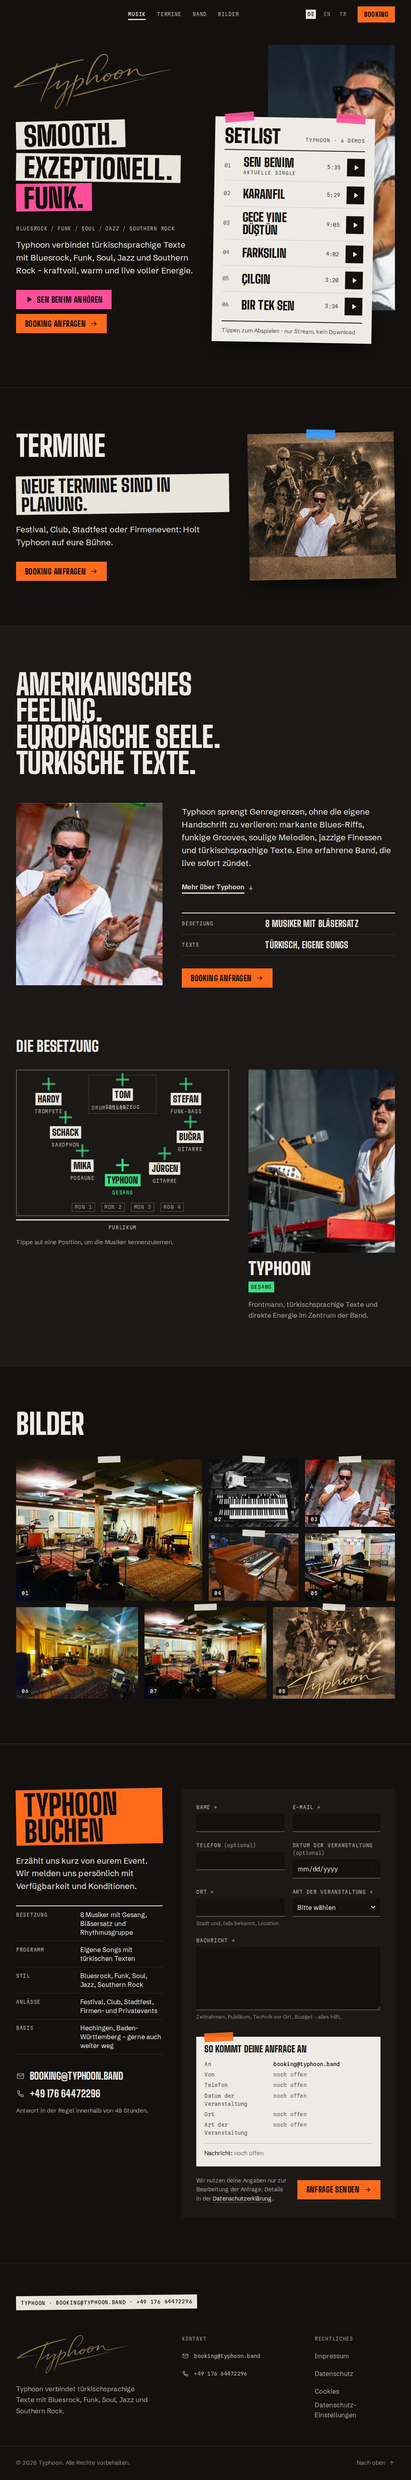
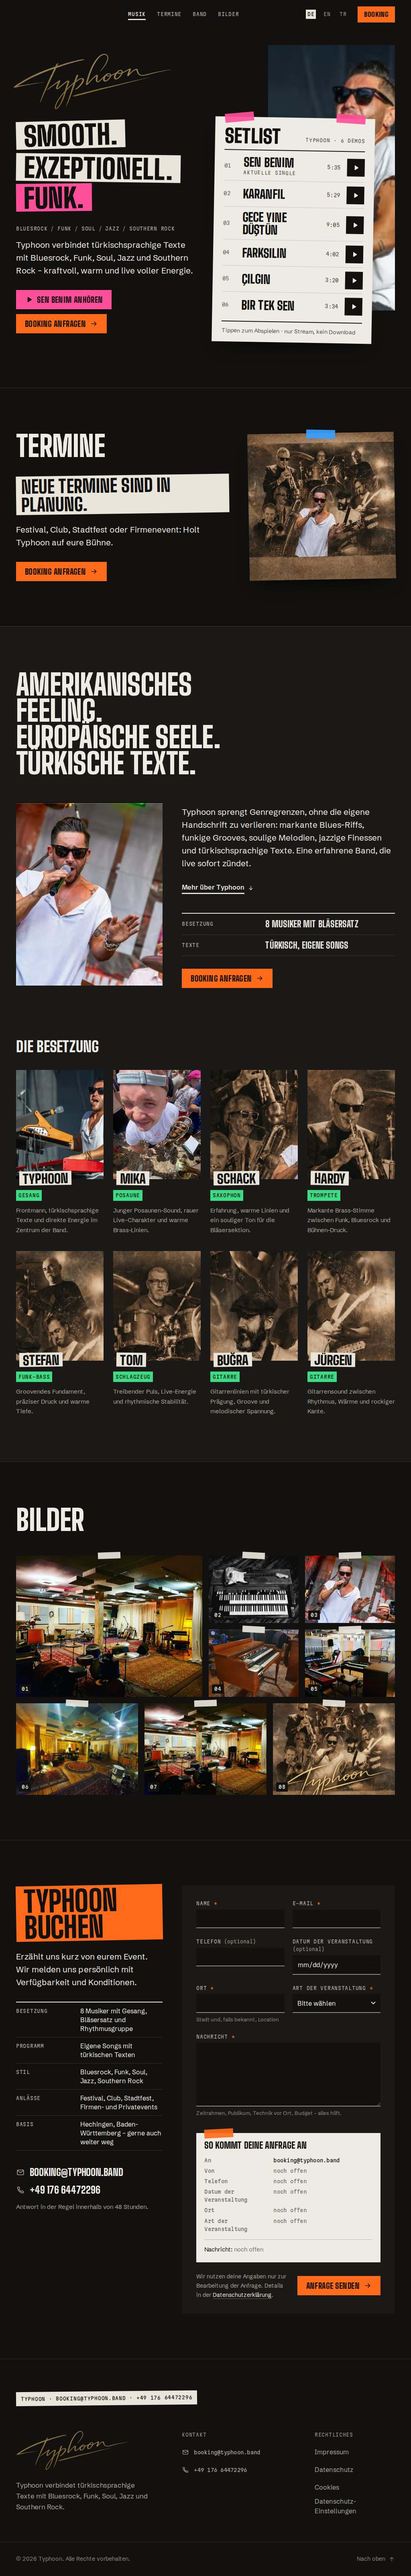
Version B: replace the stage plot with taped line-up cards
Owner feedback: the stage arrangement looked bad and was wrong - the band
has no fixed stage placement. The line-up is now a grid of member cards
(photo, name on gaffer tape, role on green tape, bio) from live data,
with no positions. Docs, DESIGN.md and evidence updated.

Claude-Session: https://claude.ai/code/session_01HWLDszhS9HpbqQ6iP971dW

diff --git a/src/components/sections/Lineup.tsx b/src/components/sections/Lineup.tsx
@@ -1,0 +1,44 @@
+import Image from "next/image";
+import type { Member } from "@/lib/content/types";
+
+// The line-up as a row of backstage passes: photo, name on gaffer tape,
+// instrument on green tape, short bio. No stage positions — the band has
+// no fixed placement on stage. Names, roles, bios and photos come from the
+// live data per slot; nothing here hard-codes a name.
+
+export function Lineup({ members }: { members: Member[] }) {
+  if (members.length === 0) return null;
+
+  return (
+    <ul className="grid grid-cols-2 gap-x-4 gap-y-10 sm:gap-x-6 md:grid-cols-3 lg:grid-cols-4">
+      {members.map((m, i) => (
+        <li
+          className="reveal"
+          key={m.id}
+          style={{ ["--reveal-delay" as string]: `${(i % 4) * 60}ms` }}
+        >
+          <article>
+            <div className="relative aspect-[4/5] overflow-hidden bg-deck-3">
+              <Image
+                alt={`${m.name}, ${m.role}`}
+                className="object-cover object-top"
+                fill
+                sizes="(min-width: 1024px) 300px, (min-width: 768px) 30vw, 50vw"
+                src={m.photoUrl}
+              />
+            </div>
+            <h4 className="-mt-5 ml-2 font-stage text-[1.625rem] font-black uppercase leading-none sm:text-[2rem]">
+              <span className={`tape relative ${i % 2 ? "rotate-[0.8deg]" : "-rotate-[0.8deg]"} inline-block max-w-full [overflow-wrap:anywhere]`}>
+                {m.name}
+              </span>
+            </h4>
+            <p className="mt-3">
+              <span className="tape tape-green mono-cap !px-1.5 !py-1">{m.role}</span>
+            </p>
+            {m.bio ? <p className="mt-3 text-[0.9375rem] leading-relaxed text-chalk-2">{m.bio}</p> : null}
+          </article>
+        </li>
+      ))}
+    </ul>
+  );
+}

diff --git a/src/i18n/dictionaries.ts b/src/i18n/dictionaries.ts
@@ -211,12 +211,6 @@ export type Dict = {
   stage: {
     setlist: string;
     setlistNote: string;
-    plotLabel: string;
-    plotHint: string;
-    audience: string;
-    riser: string;
-    monitor: string;
-    more: string;
     previewTitle: string;
     previewTo: string;
     previewFrom: string;
@@ -525,12 +519,6 @@ const de: Dict = {
   stage: {
     setlist: "Setlist",
     setlistNote: "Tippen zum Abspielen · nur Stream, kein Download",
-    plotLabel: "Bühnenplan der Besetzung",
-    plotHint: "Tippe auf eine Position, um die Musiker kennenzulernen.",
-    audience: "Publikum",
-    riser: "Drum-Riser",
-    monitor: "Mon",
-    more: "Weitere Musiker",
     previewTitle: "So kommt deine Anfrage an",
     previewTo: "An",
     previewFrom: "Von",
@@ -774,12 +762,6 @@ const en: Dict = {
   stage: {
     setlist: "Setlist",
     setlistNote: "Tap to play · streaming only, no download",
-    plotLabel: "Stage plot of the line-up",
-    plotHint: "Tap a position to meet the musicians.",
-    audience: "Audience",
-    riser: "Drum riser",
-    monitor: "Mon",
-    more: "More musicians",
     previewTitle: "This is how your request arrives",
     previewTo: "To",
     previewFrom: "From",
@@ -1023,12 +1005,6 @@ const tr: Dict = {
   stage: {
     setlist: "Set listesi",
     setlistNote: "Dinlemek için dokun · yalnızca dinleme, indirme yok",
-    plotLabel: "Kadronun sahne planı",
-    plotHint: "Müzisyenleri tanımak için bir pozisyona dokun.",
-    audience: "Seyirci",
-    riser: "Davul platformu",
-    monitor: "Mon",
-    more: "Diğer müzisyenler",
     previewTitle: "Talebin bize böyle ulaşır",
     previewTo: "Alıcı",
     previewFrom: "Gönderen",

diff --git a/src/components/sections/Band.tsx b/src/components/sections/Band.tsx
@@ -1,5 +1,5 @@
 import Image from "next/image";
-import { StagePlot } from "@/components/sections/StagePlot";
+import { Lineup } from "@/components/sections/Lineup";
 import { Icon } from "@/components/ui/Icon";
 import type { Dict } from "@/i18n/dictionaries";
 import { fill } from "@/i18n/dictionaries";
@@ -7,7 +7,7 @@ import type { Member } from "@/lib/content/types";
 
 // Who plays: the band statement set big, the story next to a live photo
 // (Site assets → bandinfo_image), the facts as rider lines, then the line-up
-// as a stage plot.
+// as taped cards (no stage positions: the band has no fixed placement).
 
 export function Band({
   dict,
@@ -80,15 +80,7 @@ export function Band({
         <div className="mt-24 md:mt-32" id="lineup">
           <h3 className="h-stage-sm reveal">{dict.members.title}</h3>
           <div className="reveal mt-8 md:mt-10">
-            <StagePlot
-              members={members.map((m) => ({
-                id: m.id,
-                name: m.name,
-                role: m.role,
-                bio: m.bio,
-                photoUrl: m.photoUrl,
-              }))}
-            />
+            <Lineup members={members} />
           </div>
         </div>
       </div>

diff --git a/DESIGN.md b/DESIGN.md
@@ -1,6 +1,6 @@
 ---
 name: Typhoon
-description: The evening seen from the stage. Stage plot, setlist and rider on a matte black deck.
+description: The evening seen from the stage. Setlist, taped line-up and rider on a matte black deck.
 colors:
   deck: "rgb(18 17 16)"
   deck-2: "rgb(27 25 23)"
@@ -148,7 +148,7 @@ components:
 
 **Creative North Star: "The Evening Seen From the Stage"**
 
-You see the site the way the band sees the room: a matte black stage deck, chalk-white gaffer tape for labels, spike tape in fixed colours marking positions, and paper taped to the floor. The line-up is a stage plot, the songs are a setlist sheet, the booking request is a rider. Everything is flat and square-cut. The only depth comes from paper sheets lying on the deck.
+You see the site the way the band sees the room: a matte black stage deck, chalk-white gaffer tape for labels, spike tape in fixed colours, and paper taped to the floor. The songs are a setlist sheet, the line-up is a row of taped cards, the booking request is a rider. Everything is flat and square-cut. The only depth comes from paper sheets lying on the deck.
 
 Density is working-document density. Big, heavy upright caps carry the signage, a sturdy grotesk handles the reading, and a condensed mono holds every number (times, durations, counters, rider data). Colour means something every time it appears: it shows up only on tape and on state, never on running text. The gold hand-drawn signature is the band's name and is the only gold on public surfaces.
 
@@ -157,7 +157,7 @@ The world rejects the category default (a full-bleed moody band photo with a big
 **Key Characteristics:**
 - Matte deck black ground, chalk text, gaffer-tape labels printed in stage ink.
 - Four spike-tape colours, each with one job: orange for booking, pink for audio, green for the line-up, blue for dates.
-- Square corners everywhere, 2px rules and strips, thin plot lines, and no gradients or glow.
+- Square corners everywhere, 2px rules and strips, and no gradients or glow.
 - Tape is laid on from the left, and content rises 16px. The live audio level pulses the "now playing" marks.
 - Real photos, uncropped band collage, and a gold signature as the logo.
 
@@ -172,7 +172,7 @@ The palette is an achromatic stage (deck and chalk) plus four saturated spike-ta
 - **Now-Playing Pink** (`tape-pink`): audio and "now playing". Used for the play buttons (`btn-play`, `ctl-play`), the current setlist row's tape, the played part of the waveform, the dock's progress line, the volume fill, the tape pieces holding the setlist sheet, the third hero tagline strip, text selection, and the caret. Ink on pink is 6.1:1. Pink on deck is 6.1:1.
 
 ### Tertiary
-- **Position Green** (`tape-green`): line-up positions only. Used for the stage-plot cross marks (70% alpha when unselected), the selected musician's role tape, and the selected role label. Green on deck is 10.6:1.
+- **Line-up Green** (`tape-green`): line-up only. Used for the instrument/role tape on each member card. Green on deck is 10.6:1.
 - **Date Blue** (`tape-blue`): dates only. Used for the show date blocks (past shows use `chalk-2` instead) and the tape piece on the Shows poster. Ink on blue is 6.9:1.
 
 ### Neutral
@@ -208,11 +208,11 @@ All three are self-hosted through next/font with latin-ext, for Turkish ğ ı ş
 - **Display** (900, clamp 2.5 to 6rem, fixed at 4.25rem at lg, line-height 0.92, uppercase): only the hero tagline strips, set on tape.
 - **Headline** (800, clamp 2.75 to 6rem, line-height 0.9, -0.01em, uppercase, balanced): section headings (`h-stage`), the 404 heading (no label above it), and legal titles.
 - **Headline small** (800, clamp 1.75 to 2.75rem, line-height 0.95): sub-section headings such as the line-up heading.
-- **Title** (800 to 900, 1.375 to 3rem, line-height 0.85 to 1.02, uppercase): setlist song titles (1.625rem, 1.875rem from sm), the setlist sheet heading (2.5/3rem), show venues, musician names, the dock title, sheet headings, and the stage-plot labels.
+- **Title** (800 to 900, 1.375 to 3rem, line-height 0.85 to 1.02, uppercase): setlist song titles (1.625rem, 1.875rem from sm), the setlist sheet heading (2.5/3rem), show venues, musician names, the dock title, sheet headings, and the line-up name tapes.
 - **Body large** (400, clamp 1.125 to 1.3125rem, line-height 1.55, chalk, max 58ch): intro sentences.
 - **Body** (400, 1.0625rem, line-height 1.6, chalk-2, max 62ch, pretty wrap): running copy. The base size is 16px/1.55.
 - **Data** (mono 0.8125rem, 0.02em, tabular numbers): times, durations, counters, and preview values.
-- **Label** (mono 0.75rem, 0.06em, uppercase, tabular numbers): nav items, field labels, fact labels, and plot legends.
+- **Label** (mono 0.75rem, 0.06em, uppercase, tabular numbers): nav items, field labels, fact labels, and rider data.
 - **Button** (Big Shoulders 800, 1.1875rem, 1.0625rem for small, 0.02em, uppercase).
 
 ### Named Rules
@@ -223,11 +223,11 @@ All three are self-hosted through next/font with latin-ext, for Turkish ğ ı ş
 ## Layout
 
 - **Shell:** max 1360px, with side padding of 16px, 24px from 640px, and 40px from 1024px. Sections use `block-y` padding (72px, 112px from 768px) and are separated by a `rule` top border.
-- **Grid:** a 12-column grid from lg. Content sections split 7/5 (Shows, StagePlot) or 5/7 (Band).
+- **Grid:** a 12-column grid from lg. Content sections split 7/5 (Shows) or 5/7 (Band).
 - **Hero:** stacked below lg. At lg it splits 6/6, and at xl 7/5 with min-height 100svh minus the header. The photo plate sits absolutely at the top right of the right column (70% width at lg, 74% at xl). The setlist sheet overlaps its lower-left corner (88%/82% width, rotated 1°). On mobile the plate runs full bleed at 16:10 and the setlist overlaps it by 56px (80px from sm).
 - **Header:** 64px tall, 72px from md. Mono nav from lg, with a hamburger menu below lg. The locale switcher and Booking button appear from sm.
 - **Player dock:** fixed to the bottom at 76px. It writes `--dock-h` so the body and the consent banner clear it. Previous/volume controls hide at the smaller breakpoints (xs/lg).
-- **Stage plot:** 1/1.05 aspect on mobile, 16/11 from sm. Role labels under the marks are hidden below 640px, and the monitor word is shortened.
+- **Line-up:** 2 columns on mobile, 3 from md, 4 from lg.
 - **Rider/preview rows:** a two-column dl (7.5 to 12rem label column). The request preview rows stack into one column below 640px.
 - **Hit areas:** at least 44px for every interactive target. No horizontal overflow at 320 or 390px (`overflow-x: clip` on body, `overflow-wrap:anywhere` on long email and phone strings).
 - **Breakpoints:** xs 420, sm 640, md 768, lg 1024, xl 1280.
@@ -245,7 +245,7 @@ The stage is flat. Depth comes from exactly one device: paper lying on the deck.
 
 ## Shapes
 
-All corners are square (0 radius), including buttons, fields, the range thumb (12x16px), and images. Lines are 2px tape strips and rules: `border-t-2 chalk` heads fact lists and legal bodies, the setlist sheet has 2px ink rules, and the stage-plot frame is 2px `rule-2` with a dashed drum riser. Tape strips and sheets sit slightly rotated (±0.6° to 1.4° for strips, 1° for sheets, 2° to 6° for tape pieces), which is how tape actually lands. The band collage poster uses `object-contain` and is never cropped.
+All corners are square (0 radius), including buttons, fields, the range thumb (12x16px), and images. Lines are 2px tape strips and rules: `border-t-2 chalk` heads fact lists and legal bodies, the setlist sheet has 2px ink rules, and the line-up cards carry their names on tape. Tape strips and sheets sit slightly rotated (±0.6° to 1.4° for strips, 1° for sheets, 2° to 6° for tape pieces), which is how tape actually lands. The band collage poster uses `object-contain` and is never cropped.
 
 ## Components
 
@@ -264,8 +264,8 @@ A flat, matte, square-cut strip in one colour with stage-ink text. Padding is 0.
 ### Setlist sheet (signature)
 A chalk sheet held by two pink tape pieces, with an ink 2px header rule and numbered rows (mono index, title, mono duration, and a 44px ink play square that turns pink when playing or hovered). The current row's title gets pink tape and carries `data-live`, and a seekable waveform opens under it (`on-light`: ink bars played, 28% ink unplayed).
 
-### Stage plot
-A 2px framed plot with thin, dashed riser and monitor outlines in `rule-2`. Each musician is a green cross mark (5px arms, `live-mark`), with a name on tape and a mono role label. The selected musician is shown in a 4:5 photo with a green role tape.
+### Line-up cards
+One card per member from live data: a 4:5 photo, the name on gaffer tape overlapping the photo's bottom edge (alternating ±0.8° tilt), the role on green tape, and the short bio in chalk-2. **No stage positions or stage plot:** the band has no fixed placement on stage (owner, 2026-09-25), so nothing may suggest one.
 
 ### Rider (booking)
 A heading on orange tape, a facts dl under a 2px chalk rule, and contact lines in Big Shoulders. The form sits on a `deck-2` panel. A chalk **request preview** sheet (taped in orange) mirrors the draft in mono just above the submit.

diff --git a/docs/redesign/VERSION-B.md b/docs/redesign/VERSION-B.md
@@ -43,8 +43,10 @@ built site by Impeccable's documenter). Product record:
 
 **The evening seen from the stage.**
 - The songs are the **setlist** taped to the floor: every row plays.
-- The line-up is a **stage plot**: spike-tape marks where each musician
-  stands, with a drum riser and monitor wedges.
+- The line-up is a row of **taped member cards** (photo, name on gaffer
+  tape, instrument on green tape, bio). The first build had a stage plot
+  with positions; the owner rejected it (the band has no fixed stage
+  placement), so it was removed.
 - Booking is the **rider**, with a live preview of the request as it will
   arrive.
 
@@ -66,7 +68,7 @@ Square corners, no gradients, no glow. Gold appears only in the signature
 logo.
 
 The signature interaction is **one shared clock**. While a song plays, the
-live Web Audio level pulses the stage-plot marks and the dock cover, and the
+live Web Audio level pulses the now-playing tape and the dock cover, and the
 active setlist row carries the pink tape and a seekable waveform. The pulse is
 off under reduced motion.
 
@@ -78,7 +80,7 @@ off under reduced motion.
 | First screen | collage + serif headline, player card below | collage with signature bleeding into a featured player | big gold signature, tagline laid as three tape strips, **setlist with all six songs** taped over a colour live photo; play + booking CTAs |
 | Music | featured player + list | featured player + record-sleeve tracklist (4 + "show all") | the setlist *is* the tracklist; the active row shows a waveform and pink tape; persistent dock |
 | Shows | TBA placeholder cards | list / honest empty state | dates on blue tape next to the **band poster** (admin hero image, always shown whole); honest empty state → booking |
-| Band | image + text, member cards | editorial split + member cards with bios | statement headline, story, rider-style facts, **interactive stage plot** (tabs, arrow keys) with a member panel |
+| Band | image + text, member cards | editorial split + member cards with bios | statement headline, story, rider-style facts, member cards with name on gaffer tape, instrument on green tape and bio |
 | Photos | grid + lightbox | contact sheet + viewer | taped contact sheet with frame numbers + the same viewer |
 | Booking | form | facts + poster + form | rider: orange tape heading, facts, direct line, form with a **live request preview above submit**; errors re-check while typing |
 | Colour | gold accents | gold for the primary action | orange only for booking; pink only for audio |
@@ -107,7 +109,7 @@ Behaviour changes:
   - only one song plays at a time
   - a seek slider appears on the active row
   - no download links or native controls
-  - stage-plot tab switching and arrow keys
+  - line-up renders all member cards (no stage plot)
   - lightbox: open, arrow key, Esc, focus returns
   - booking: client validation and preview updates
   - DE→TR switch keeps `#band`, with correct Turkish uppercase (OLAĞANÜSTÜ)
@@ -130,7 +132,7 @@ Behaviour changes:
   - `de-{320,390,768,1024,1440}-{fold,full}.jpg`
   - `tr-{390,1440}-*.jpg`
   - `legal-en-390-*.jpg`
-  - `journey-*.png` (playing, stage plot, booking validation + preview,
+  - `journey-*.png` (playing, line-up, booking validation + preview,
     lightbox, mobile menu, mobile dock)
 
 ## 5. Open points
@@ -149,7 +151,4 @@ Behaviour changes:
     the booking "Basis" row)
   - real platform links
   - song covers
-  - higher-resolution member photos (the stage-plot panel shows them at up
-    to 380 px)
-- The stage plot is a schematic of the line-up, not a technical rider. A real
-  rider (inputs, power) would need the band's data.
+  - higher-resolution member photos (cards show them at up to ~300 px)

diff --git a/README.md b/README.md
@@ -61,7 +61,7 @@ src/
       layout.tsx                # root layout: <html lang>, fonts (Big Shoulders + Schibsted Grotesk + Martian Mono), metadata, DictProvider
       (site)/                   # public site (route group, URLs unchanged)
         layout.tsx              # AudioPlayerProvider, Header, Footer, PlayerDock, ConsentBanner, MotionInit, LiveLevel
-        page.tsx                # one-pager: Hero + Setlist → Shows (+ band poster) → Band/Stage plot → Photos → Booking
+        page.tsx                # one-pager: Hero + Setlist → Shows (+ band poster) → Band/Line-up → Photos → Booking
         legal/{imprint,privacy,cookies}/page.tsx  # Admin Markdown or curated fallback (src/content/legal.ts)
         not-found.tsx, [...rest]/page.tsx         # styled 404
       admin/                    # protected Admin (own chrome, noindex)
@@ -75,7 +75,7 @@ src/
     audio/                      # AudioPlayerProvider, Waveform, Setlist, PlayerDock, PlayTrackButton, LiveLevel
     consent/                    # consent contract, ConsentBanner, ExternalMediaGate, settings button
     legal/                      # LegalShell (safe renderer), LegalPage (shared server view)
-    sections/                   # Hero, Shows, Band, StagePlot, Gallery, Booking, BookingForm
+    sections/                   # Hero, Shows, Band, Lineup, Gallery, Booking, BookingForm
     site/                       # Header, Footer, LocaleSwitcher, PlatformLinks, MotionInit
     ui/                         # Icon set
   content/legal.ts              # fallback legal texts DE/EN/TR (not legal advice)

diff --git a/.impeccable/surfaces/src-app-locale-site-page-tsx.md b/.impeccable/surfaces/src-app-locale-site-page-tsx.md
@@ -34,6 +34,7 @@ FINISH: unreviewed and undocumented is unfinished; this build ends with the fini
 - Third tagline strip is pink (audio role), orange stays booking-only.
 - The admin hero image (band collage, must stay whole) is the band poster in Shows; the first viewport's photo plate is the live colour photo `public/assets/band-cards/typhoon-band-card.jpg`.
 - Booking section sits on deck black; orange = heading tape + submit.
+- Owner 2026-09-25: "Die Bühnen-Aufstellung ist hässlich und stimmt nicht, wir haben keine feste Bühnen-Aufstellung." The stage plot is removed; the line-up is a row of taped member cards (photo, name on gaffer, role on green tape, bio). Never show stage positions.
 
 ## Unresolved
 - Line-up slot 8 (live DB: Tan – Percussion) — rendered from data, no copy change.
